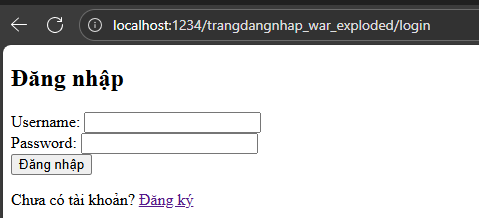
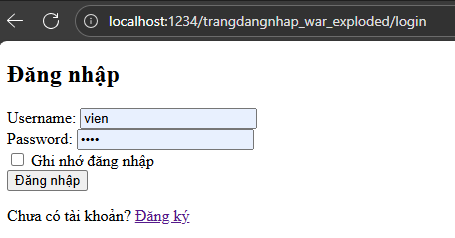
big update ver2

Changed region(s): [[0.0, 0.0, 1.0, 1.0], [0.0, 0.055, 0.0615, 0.1376]]

diff --git a/src/main/java/org/example/trangdangnhap/UserController.java b/src/main/java/org/example/trangdangnhap/UserController.java
@@ -12,7 +12,7 @@ import org.example.trangdangnhap.service.impl.UserServiceImpl;
 
 import java.io.IOException;
 
-@WebServlet(name = "userController", urlPatterns = {"/login", "/register", "/logout"})
+@WebServlet(name = "userController", urlPatterns = {"/login", "/register", "/logout", "/home"})
 public class UserController extends HttpServlet {
     private final UserService userService = new UserServiceImpl();
 
@@ -21,6 +21,17 @@ public class UserController extends HttpServlet {
         String path = req.getServletPath();
         switch (path) {
             case "/login":
+                // Auto-login bằng cookie nếu có
+                if (req.getSession(false) != null && req.getSession(false).getAttribute("currentUser") != null) {
+                    resp.sendRedirect(req.getContextPath() + "/home");
+                    return;
+                }
+                User remembered = getUserFromRememberCookie(req);
+                if (remembered != null) {
+                    req.getSession(true).setAttribute("currentUser", remembered);
+                    resp.sendRedirect(req.getContextPath() + "/home");
+                    return;
+                }
                 req.getRequestDispatcher("/Views/login.jsp").forward(req, resp);
                 break;
             case "/register":
@@ -29,7 +40,15 @@ public class UserController extends HttpServlet {
             case "/logout":
                 HttpSession session = req.getSession(false);
                 if (session != null) session.invalidate();
+                clearRememberCookie(req, resp);
                 resp.sendRedirect(req.getContextPath() + "/login");
+                break;
+            case "/home":
+                if (req.getSession(false) == null || req.getSession(false).getAttribute("currentUser") == null) {
+                    resp.sendRedirect(req.getContextPath() + "/login");
+                    return;
+                }
+                req.getRequestDispatcher("/Views/home.jsp").forward(req, resp);
                 break;
             default:
                 resp.sendError(HttpServletResponse.SC_NOT_FOUND);
@@ -67,16 +86,73 @@ public class UserController extends HttpServlet {
     private void doLogin(HttpServletRequest req, HttpServletResponse resp) throws IOException, ServletException {
         String username = req.getParameter("username");
         String password = req.getParameter("password");
+        boolean remember = "true".equals(req.getParameter("remember"));
 
         User user = userService.login(username, password);
         if (user != null) {
             HttpSession session = req.getSession(true);
             session.setAttribute("currentUser", user);
-            resp.sendRedirect(req.getContextPath() + "/Views/home.jsp");
+            if (remember) {
+                setRememberCookie(resp, user);
+            }
+            // Điều hướng theo vai trò nếu có
+            if (user.getRoleId() != null) {
+                switch (user.getRoleId()) {
+                    case 1: // admin
+                        resp.sendRedirect(req.getContextPath() + "/home");
+                        return;
+                    case 2: // manager
+                        resp.sendRedirect(req.getContextPath() + "/home");
+                        return;
+                    default:
+                        resp.sendRedirect(req.getContextPath() + "/home");
+                        return;
+                }
+            }
+            resp.sendRedirect(req.getContextPath() + "/home");
         } else {
             req.setAttribute("error", "Sai tên đăng nhập hoặc mật khẩu");
             req.getRequestDispatcher("/Views/login.jsp").forward(req, resp);
         }
+    }
+
+    private void setRememberCookie(HttpServletResponse resp, User user) {
+        // Lưu username băm nhẹ (demo). Sản phẩm thực tế dùng token an toàn.
+        jakarta.servlet.http.Cookie c = new jakarta.servlet.http.Cookie("remember_username", user.getUsername());
+        c.setMaxAge(7 * 24 * 60 * 60);
+        c.setPath("/");
+        resp.addCookie(c);
+    }
+
+    private void clearRememberCookie(HttpServletRequest req, HttpServletResponse resp) {
+        jakarta.servlet.http.Cookie[] cookies = req.getCookies();
+        if (cookies == null) return;
+        for (jakarta.servlet.http.Cookie c : cookies) {
+            if ("remember_username".equals(c.getName())) {
+                c.setMaxAge(0);
+                c.setPath("/");
+                resp.addCookie(c);
+            }
+        }
+    }
+
+    private User getUserFromRememberCookie(HttpServletRequest req) {
+        jakarta.servlet.http.Cookie[] cookies = req.getCookies();
+        if (cookies == null) return null;
+        String username = null;
+        for (jakarta.servlet.http.Cookie c : cookies) {
+            if ("remember_username".equals(c.getName())) {
+                username = c.getValue();
+                break;
+            }
+        }
+        if (username == null) return null;
+        // Không có mật khẩu ở cookie, nên không thể login thực sự.
+        // Ở đây có thể mở rộng: tạo API lấy user by username. Đơn giản: tạo user tối thiểu.
+        User minimal = new User();
+        minimal.setUsername(username);
+        minimal.setEmail("");
+        return minimal;
     }
 }
 

diff --git a/src/main/java/org/example/trangdangnhap/dao/impl/UserDAOImpl.java b/src/main/java/org/example/trangdangnhap/dao/impl/UserDAOImpl.java
@@ -12,7 +12,7 @@ import java.sql.Statement;
 
 public class UserDAOImpl implements UserDAO {
     private static final String SQL_INSERT = "INSERT INTO [User] (username, password, email) VALUES (?, ?, ?)";
-    private static final String SQL_SELECT_LOGIN = "SELECT TOP 1 id, username, password, email FROM [User] WHERE username = ? AND password = ?";
+    private static final String SQL_SELECT_LOGIN = "SELECT TOP 1 * FROM [User] WHERE username = ? AND password = ?";
     private static final String SQL_CHECK_EXISTS = "SELECT TOP 1 1 FROM [User] WHERE username = ?";
 
     @Override
@@ -53,6 +53,13 @@ public class UserDAOImpl implements UserDAO {
                     user.setUsername(rs.getString("username"));
                     user.setPassword(rs.getString("password"));
                     user.setEmail(rs.getString("email"));
+                    try {
+                        int role = rs.getInt("roleId");
+                        if (!rs.wasNull()) {
+                            user.setRoleId(role);
+                        }
+                    } catch (SQLException ignore) {
+                    }
                     return user;
                 }
             }

diff --git a/src/main/java/org/example/trangdangnhap/model/User.java b/src/main/java/org/example/trangdangnhap/model/User.java
@@ -5,15 +5,17 @@ public class User {
     private String username;
     private String password;
     private String email;
+    private Integer roleId; // 1=admin,2=manager,3=user (ví dụ)
 
     public User() {
     }
 
-    public User(Long id, String username, String password, String email) {
+    public User(Long id, String username, String password, String email, Integer roleId) {
         this.id = id;
         this.username = username;
         this.password = password;
         this.email = email;
+        this.roleId = roleId;
     }
 
     public User(String username, String password, String email) {
@@ -52,6 +54,14 @@ public class User {
 
     public void setEmail(String email) {
         this.email = email;
+    }
+
+    public Integer getRoleId() {
+        return roleId;
+    }
+
+    public void setRoleId(Integer roleId) {
+        this.roleId = roleId;
     }
 }
 
